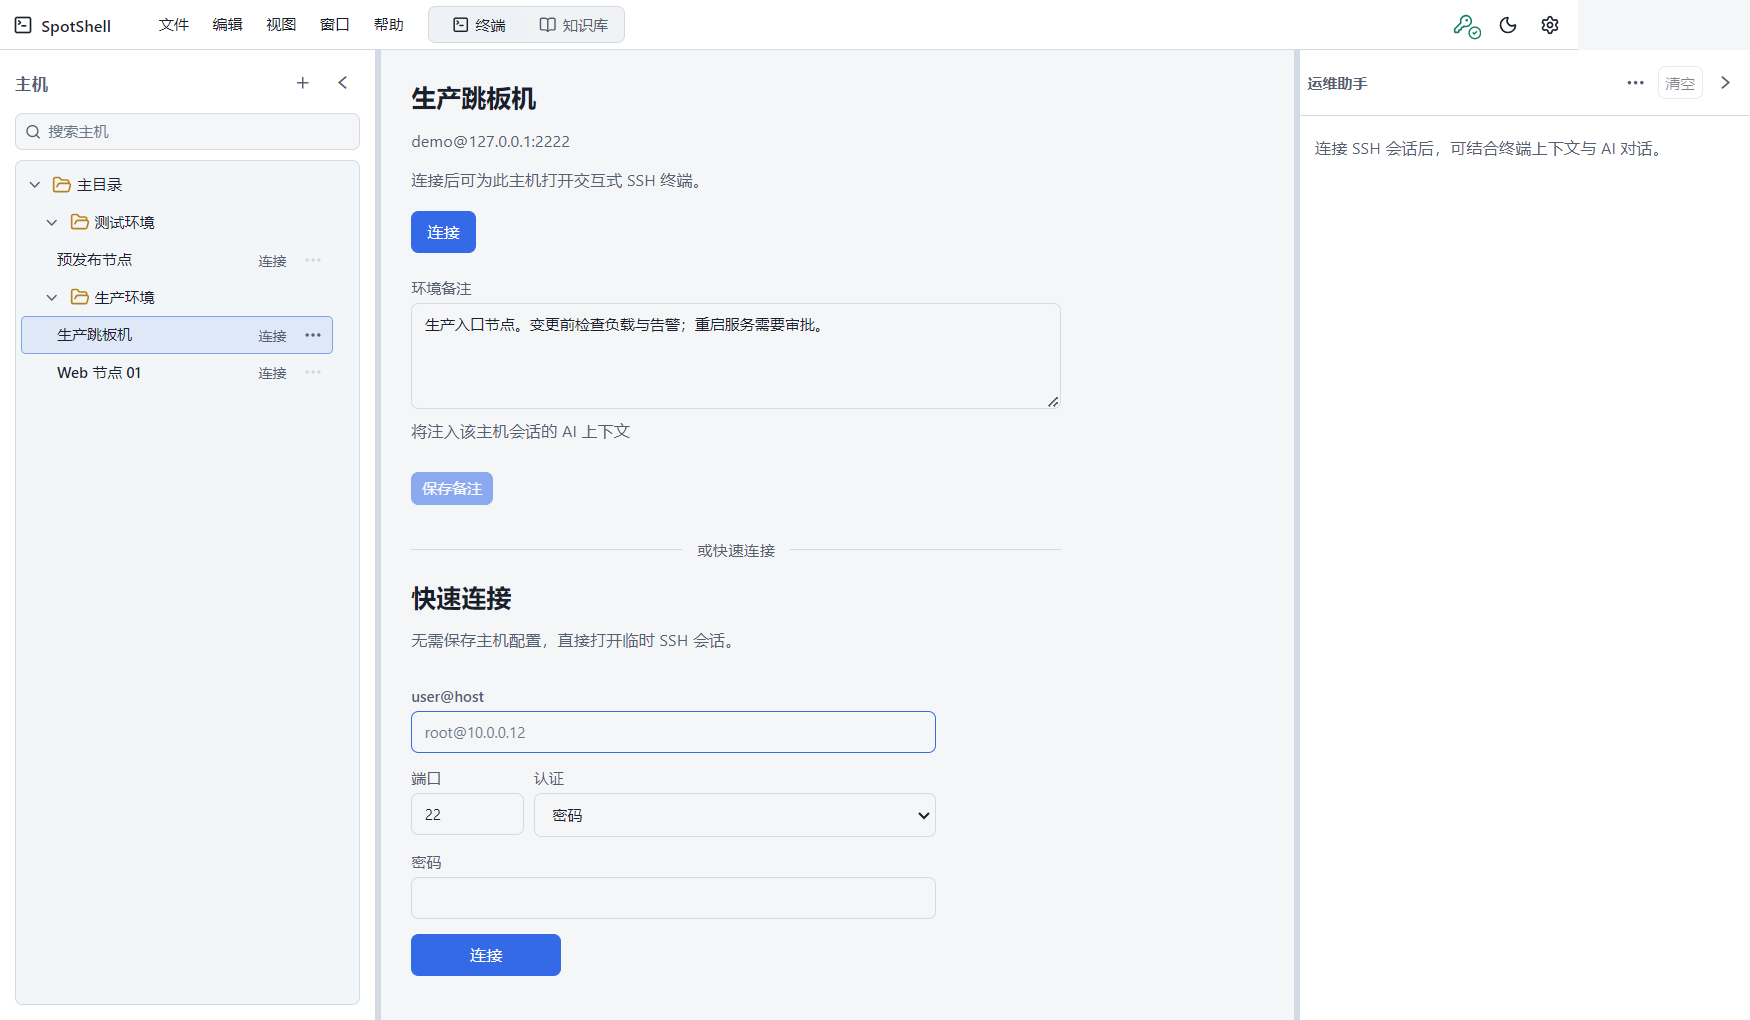
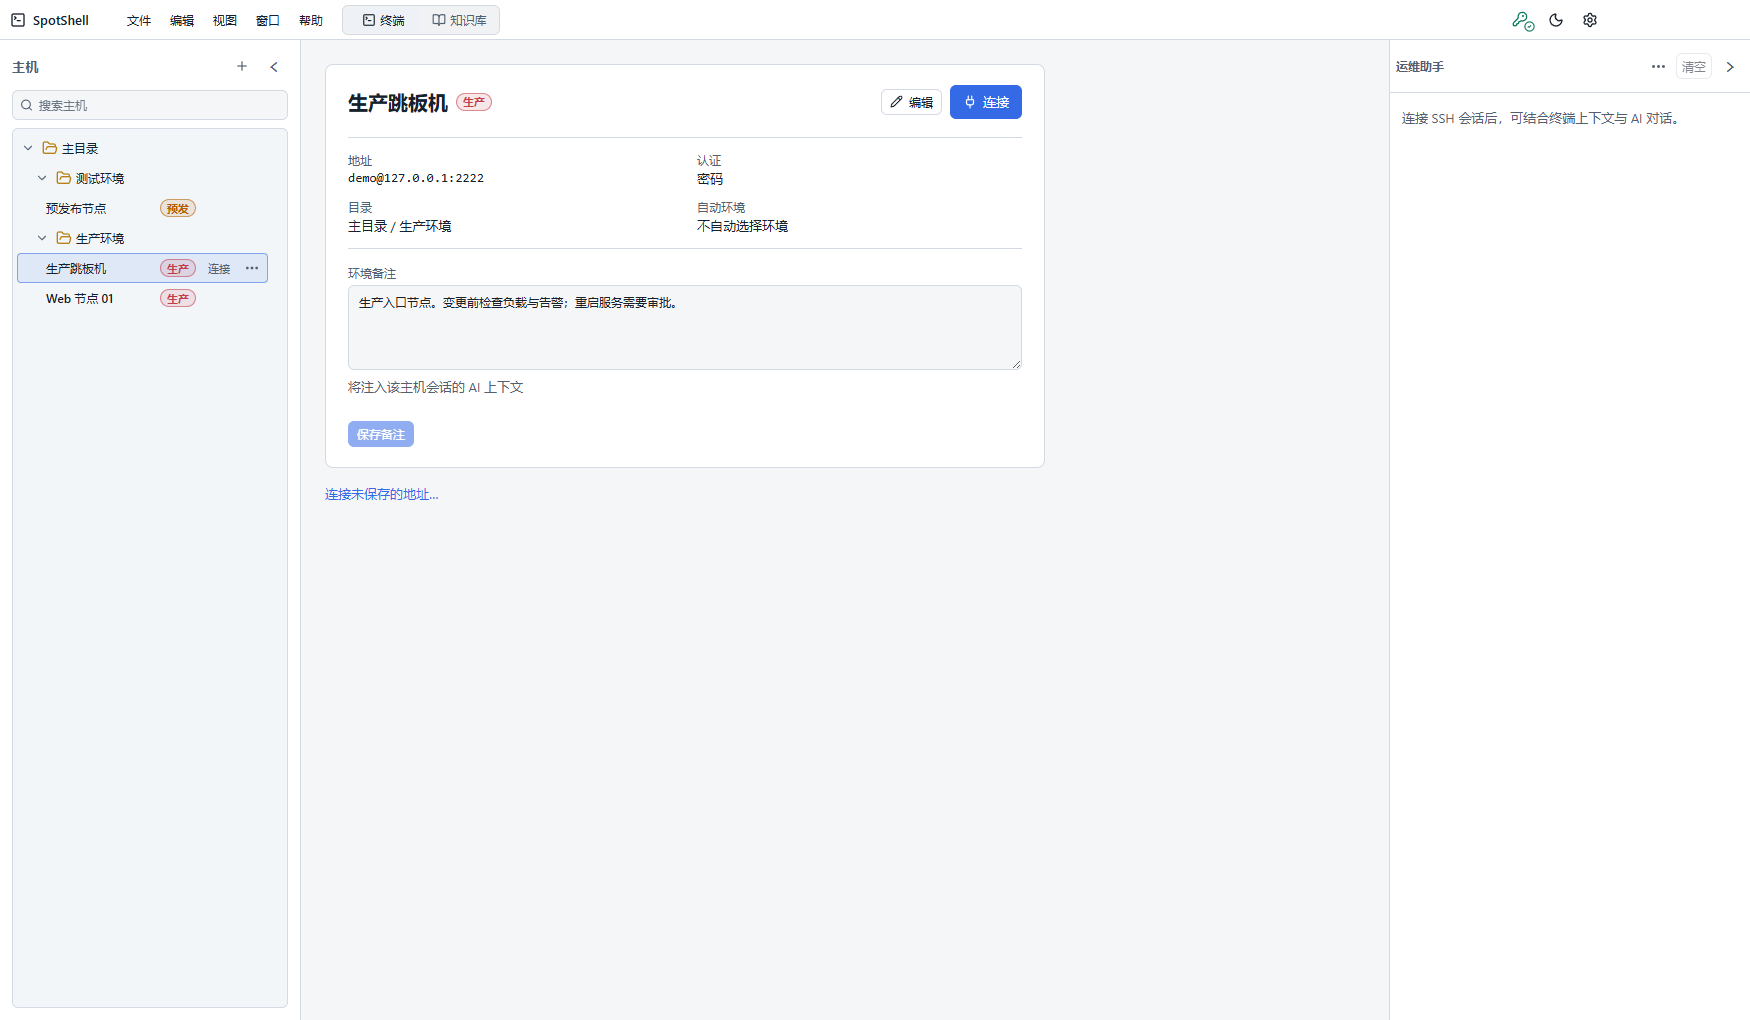
docs: 用户指南与 README 跟进环境级别和新版界面
- desktop.md：主机详情页、行内按钮按需显示、会话状态点、编辑框的环境级别字段，新增「环境级别提示」一节
- ai-assistant.md：审批卡片标明目标主机与生产高亮，新会话可点击示例问题
- 修正指南中与界面不符的按钮名：清除 → 清空、新上下文 → 开启新上下文、允许命令 / 拒绝命令 → 允许执行 / 拒绝
- README 功能表补充环境级别与审批目标；4 张截图用新界面重拍（浅色主题，1750×1020，演示数据）

diff --git a/docs/user-guide/desktop.md b/docs/user-guide/desktop.md
@@ -27,15 +27,19 @@
 | --- | --- |
 | 标题旁的 `+` | 新建主机 |
 | 搜索框 | 按主机名称、地址或用户名筛选 |
-| 单击主机 | 查看连接信息和主机备注 |
+| 单击主机 | 打开主机详情：地址、认证方式、所在文件夹、自动环境、环境级别和主机备注；可在此 `编辑` 或 `连接` |
 | 双击主机 | 立即连接 |
-| `连接` | 打开新的 SSH 会话 |
+| `连接` | 打开新的 SSH 会话；鼠标悬停、选中或键盘聚焦到主机时显示 |
 | `...` 或右键主机 | 打开连接、测试连接、编辑、移动到文件夹和删除操作 |
+| 主机名旁的圆点 | 该主机已有会话：绿色为已连接，黄色为连接中，红色为出错 |
+| 主机名旁的彩色标签 | 主机的环境级别，见下文 |
 | 右键文件夹 | 重命名、新建子文件夹、新建主机或删除文件夹 |
 | 拖动主机 | 把主机移动到目标文件夹；拖到根区域可移回主目录 |
 | `<` / `>` | 折叠或展开主机区 |
 
 删除文件夹不会删除其中的主机和子文件夹，它们会移到上一级；发生同名冲突时操作会停止并提示处理。
+
+主机详情页底部的 `连接未保存的地址…` 用于临时连接未保存的主机，与标签栏的 `+` 作用相同。
 
 ### 新建或编辑主机
 
@@ -48,6 +52,7 @@
 | 认证方式 | 私钥、密码或 SSH Agent |
 | 私钥路径 | 使用私钥认证时填写本机私钥文件路径 |
 | 自动环境 | 连接后自动选择的环境配置；也可以不绑定 |
+| 环境级别 | `生产`、`预发`、`测试`、`开发` 或不标记；决定该主机会话的颜色提示 |
 | 主机备注 | 仅属于该主机的说明，会作为 AI 上下文的一部分 |
 
 编辑已有主机时可点击 `测试连接`，用尚未保存的表单内容测试地址、认证与延迟。保存的密码和 API Key 不会显示回界面；更换认证方式时，界面会要求确认是否清除已有密码。
@@ -78,6 +83,10 @@
 | `Ctrl+W` | 关闭当前会话；焦点在表单或 AI 输入框时不会触发 |
 
 标签状态会区分连接中、已连接、已断开和错误。连接断开后可在终端提示中选择 `重新连接` 或关闭会话。
+
+### 环境级别提示
+
+为主机设置环境级别后，它的会话会在多处显示同一种颜色：主机列表、会话标签、终端顶部色条、AI 区标题和命令审批卡片。生产为红色，预发为橙色，测试为蓝色，开发为绿色。快速连接的临时会话没有级别。
 
 终端内右键可使用：
 
